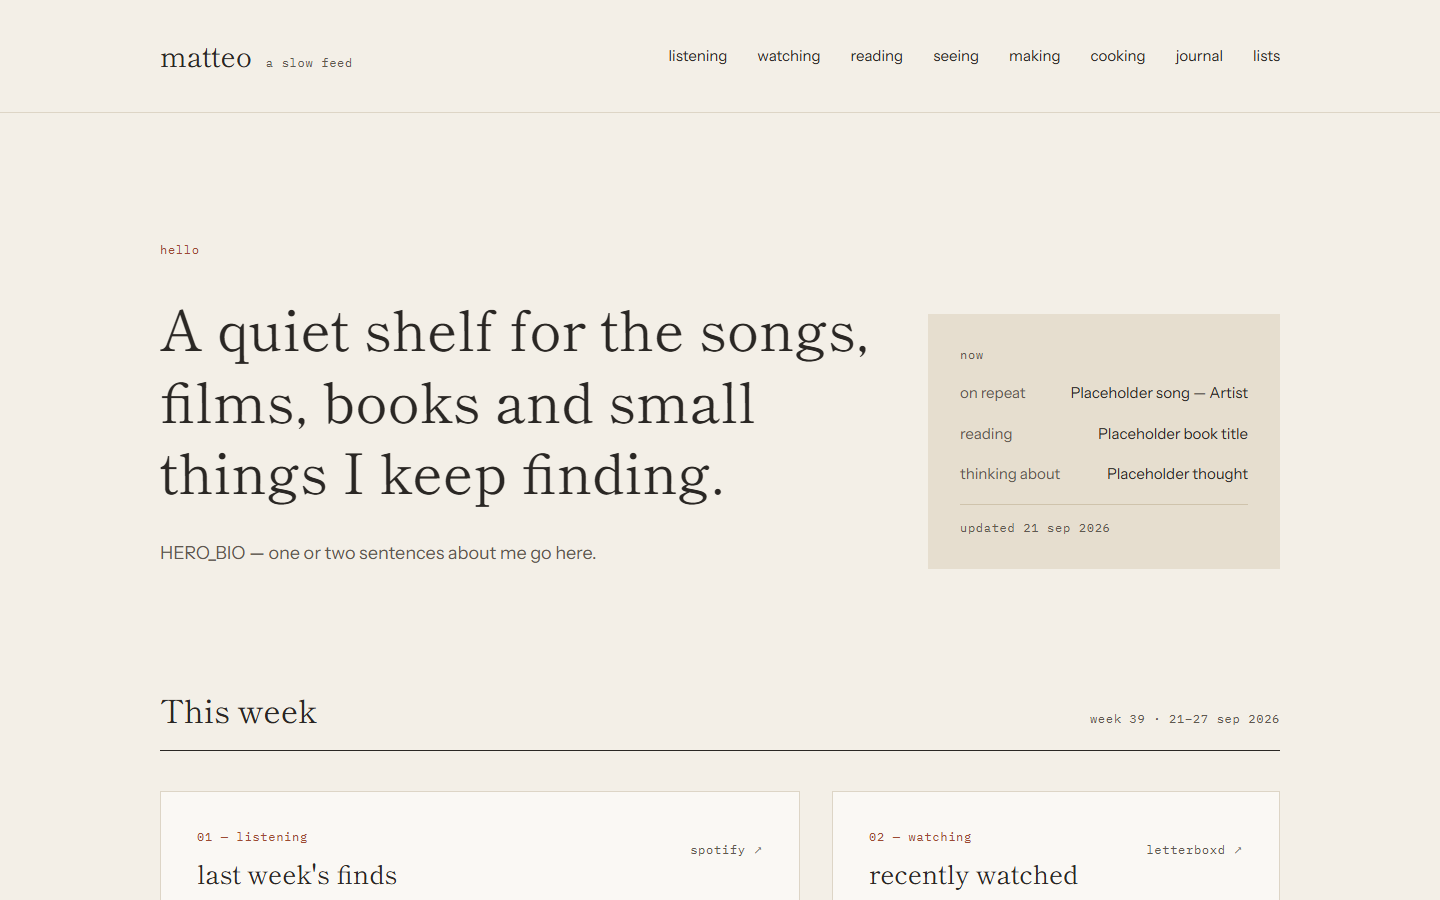
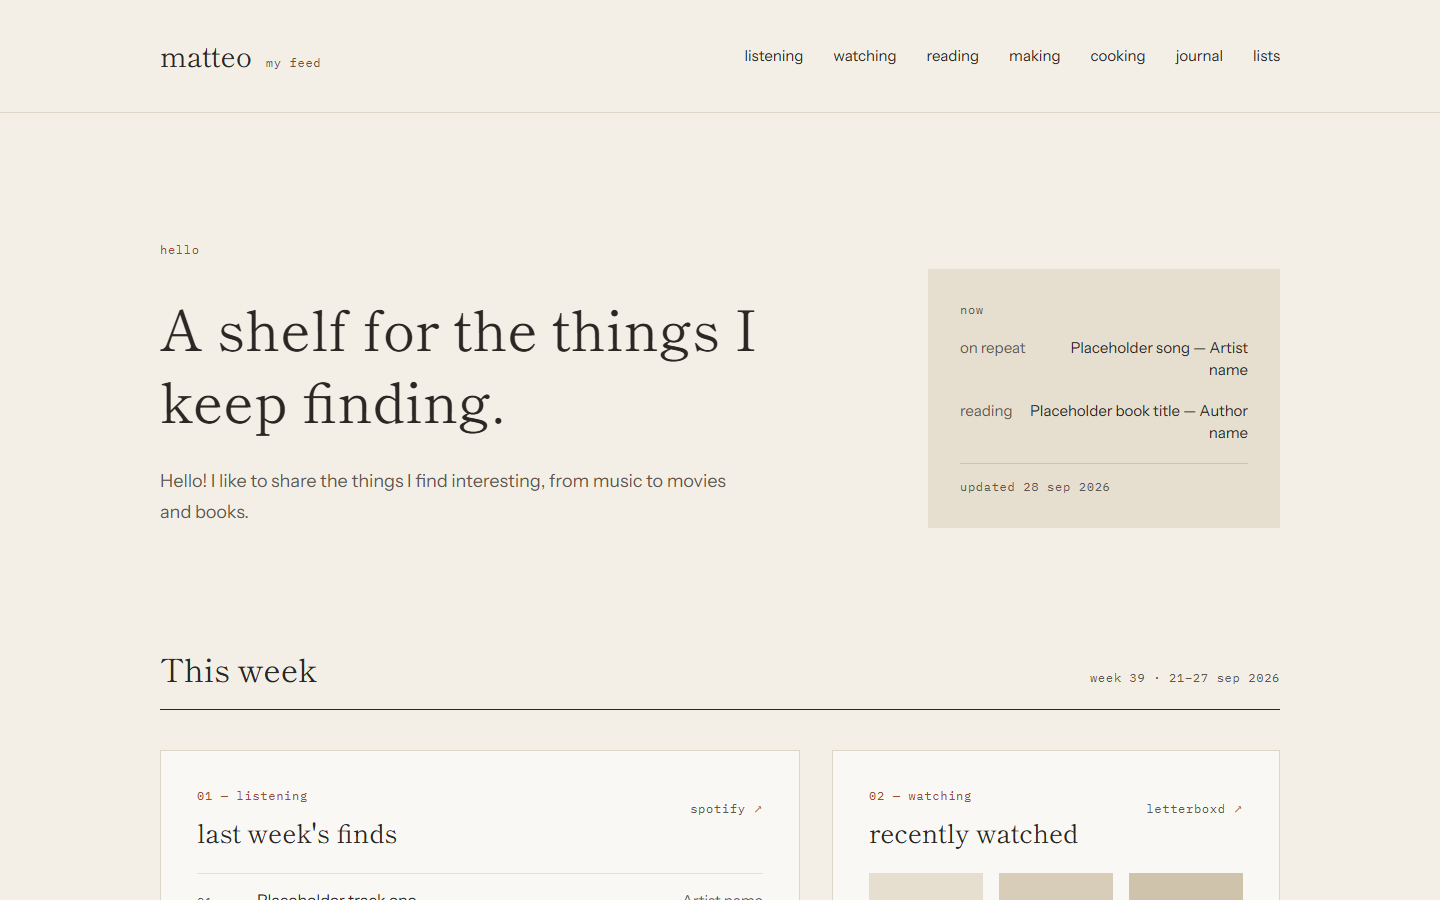
docs: add lighthouse scores, contrast table and new screenshots

diff --git a/docs/DESIGN.md b/docs/DESIGN.md
@@ -20,14 +20,14 @@ how to fill in each value and create each secret.
 | Value                                                                 | Where           | Notes                                                                             |
 | --------------------------------------------------------------------- | --------------- | --------------------------------------------------------------------------------- |
 | `SITE_NAME`                                                           | site.config.ts  | `matteo` (lowercase wordmark)                                                     |
-| `TAGLINE`                                                             | site.config.ts  | `a slow feed`                                                                     |
-| `HERO_TITLE`                                                          | site.config.ts  | `A quiet shelf for the songs, films, books and small things I keep finding.`      |
+| `TAGLINE`                                                             | site.config.ts  | `my feed`                                                                         |
+| `HERO_TITLE`                                                          | site.config.ts  | `A shelf for the things I keep finding.`                                          |
 | `HERO_BIO`                                                            | site.config.ts  | 1–2 sentences about Matteo                                                        |
 | `SITE_URL`                                                            | site.config.ts  | `https://vitellaro-matteo.github.io` (origin only)                                |
 | `BASE_PATH`                                                           | site.config.ts  | `/`: the repo is `vitellaro-matteo.github.io`, which Pages serves from the root   |
 | `TIMEZONE`                                                            | site.config.ts  | `Europe/Berlin` (week numbers and dates)                                          |
 | `SPOTIFY_PLAYLIST_ID`                                                 | site.config.ts  | the "last week's finds" playlist: the id, or its share link (`?si=…` is stripped) |
-| `LASTFM_USERNAME`                                                     | site.config.ts  | for the now box's "on repeat" row                                                 |
+| `LASTFM_USERNAME`                                                     | site.config.ts  | for the now box's "on repeat" row and the footer's `last.fm ↗` link               |
 | `LETTERBOXD_USERNAME`                                                 | site.config.ts  |                                                                                   |
 | `GOODREADS_USER_ID`                                                   | site.config.ts  | numeric id from the profile URL                                                   |
 | `GITHUB_USERNAME`                                                     | site.config.ts  |                                                                                   |
@@ -59,6 +59,9 @@ the directory-style output, so GitHub Pages never redirects.
 - **Quality:** ESLint (typescript-eslint, eslint-plugin-astro, jsx-a11y),
   Prettier, `astro check`, Vitest for every module in `src/lib`, ruff, mypy
   (strict), pytest, all run by CI.
+- **Build-time images:** `opentype.js` turns text in the site's own fonts into
+  outlines and `@resvg/resvg-js` rasterises the SVG, for the favicon PNGs and the
+  share cards (§3, Head and share images). No headless browser, no system fonts.
 - **Hosting:** GitHub Pages via `actions/deploy-pages`.
 - **Client JavaScript** is limited to the listening previews, the lists-page
   tabs, the map tooltips and the menu below desktop width, each a few dozen
@@ -88,6 +91,36 @@ the directory-style output, so GitHub Pages never redirects.
 
 Alternative accents are kept as comments only: moss `#5E6B4E`, slate `#3F5A6B`,
 ink `#2A2724`.
+
+### Contrast
+
+Every text and background pair the site uses, with its WCAG 2.2 contrast ratio.
+All of them pass AA (4.5:1 for text, 3:1 for large text and graphics) with the
+tokens as they are; none needed changing. `src/lib/contrast.ts` lists the pairs
+and its test reads the values from `tokens.css`, so a token change that breaks a
+pair fails `npm test`.
+
+| Foreground  | Background | Ratio   | Needs | Where                                                       |
+| ----------- | ---------- | ------- | ----- | ----------------------------------------------------------- |
+| `--ink`     | `--paper`  | 12.95:1 | 4.5   | body text, headings, nav, footer wordmark                   |
+| `--ink`     | `--card`   | 14.00:1 | 4.5   | card text, tile titles, map tooltip                         |
+| `--ink`     | `--kraft`  | 11.11:1 | 4.5   | now box values, lists band heading and tiles                |
+| `--muted`   | `--paper`  | 6.11:1  | 4.5   | bio, page intro text, meta, footer links                    |
+| `--muted`   | `--card`   | 6.60:1  | 4.5   | artists, authors, dates, source links, notes                |
+| `--muted`   | `--kraft`  | 5.24:1  | 4.5   | now box labels and `updated` line, band text                |
+| `--accent`  | `--paper`  | 5.32:1  | 4.5   | labels, current nav item, hover, the challenge count        |
+| `--accent`  | `--card`   | 5.76:1  | 4.5   | card labels, the `■` stop glyph, the #1 numeral             |
+| `--accent`  | `--kraft`  | 4.57:1  | 4.5   | lists and challenge band labels                             |
+| `--numeral` | `--paper`  | 3.43:1  | 3     | list numerals 02–10 (display 32–56px, large text)           |
+| `--accent`  | `--kraft`  | 4.57:1  | 3     | cooked countries against uncooked ones on the map (graphic) |
+| `--accent`  | `--paper`  | 5.32:1  | 3     | the focus outline (graphic; 5.76:1 on cards)                |
+
+Two graphics sit below 3:1 on purpose, because neither is the only way to get
+their information: the contribution calendar's lighter levels (accent at 30% and
+60% on card, 1.56:1 and 2.61:1) decorate an image whose name gives the total
+(`N contributions in the last 52 weeks`), and uncooked countries (`--kraft`,
+1.26:1 on card) are listed in full, by continent, under the map. Borders and
+rules (`--line`, `--line-soft`) are decorative.
 
 ### Type
 
@@ -132,7 +165,7 @@ Mono is always lowercase as written; nothing is ever uppercase-transformed.
 - 12-column grid, `column-gap: 32px` (row gap 32px for card grids).
 - **Breakpoints:** desktop from 1024px; **tablet** 768–1023px; **mobile** below
   768px. Below desktop every 12-column grid becomes a single column (twelve
-  columns would still reserve eleven 32px gaps, wider than a phone). §4.8 has the
+  columns would still reserve eleven 32px gaps, wider than a phone). §4.9 has the
   details.
 
 ### Components
@@ -143,7 +176,7 @@ Mono is always lowercase as written; nothing is ever uppercase-transformed.
   `listening · watching · reading · making · cooking · journal · lists`.
   The first five are anchors to the home-page sections; journal and lists link to
   their pages. On the journal, lists and cooking pages the matching item is
-  `--accent`. Below desktop the nav becomes the menu (§4.8).
+  `--accent`. Below desktop the nav becomes the menu (§4.9).
 - **Section heading:** display 32px `<h2>` on the left, mono muted meta on the
   right, baseline-aligned, `padding-bottom: 20px; border-bottom: 1px solid var(--ink)`;
   content starts 40px below.
@@ -154,9 +187,11 @@ Mono is always lowercase as written; nothing is ever uppercase-transformed.
 - **Media tile** (films and books): one link wrapping the 2:3 cover, the title
   (body 14px) and a mono muted meta line. Hover turns the title `--accent`, with
   no image effect; focus outlines the whole tile. It opens the Letterboxd entry
-  or Goodreads book page in the same tab, and its accessible name is
-  `Title (year), rated N stars on Letterboxd` or `Title by Author on Goodreads`
-  (the cover's alt text is empty, since the link names it).
+  or Goodreads book page in the same tab. Its accessible name starts with the
+  visible title (WCAG 2.5.3, label in name) and goes on with visually hidden
+  words in place of the symbol-heavy meta line, which is `aria-hidden`:
+  `Title (year), rated N stars, on Letterboxd` or `Title by Author, on
+Goodreads`. The cover's alt text is empty, since the link names it.
 - **Rows inside a card:** each row has `border-top: 1px solid var(--line-soft)`,
   including the first, so every list starts with a hairline under the card
   header. Padding 14px 0 (12px for GitHub rows, 16px for journal rows).
@@ -169,7 +204,9 @@ Mono is always lowercase as written; nothing is ever uppercase-transformed.
 - **Footer:** `margin-top: 96px; padding: 40px 0 64px; border-top: 1px solid var(--ink)`.
   Left: wordmark (display 22px) and `Updated automatically, written slowly.`
   (body 14px, muted) side by side, baseline-aligned, gap 14px, like the header.
-  Right: mono muted links, gap 24px: spotify, letterboxd, goodreads, github, rss.
+  Right: mono muted links, gap 24px: spotify, last.fm, letterboxd, goodreads,
+  github, rss. The last.fm link is left out while `LASTFM_USERNAME` is still a
+  placeholder (`isFilled` in `src/lib/config.ts`).
 
 ### Formats
 
@@ -179,6 +216,38 @@ Mono is always lowercase as written; nothing is ever uppercase-transformed.
 - Relative time: `40m ago`, `5h ago`, `3d ago`.
 - Tags: joined with `, `.
 - Reading time: word count at 200 words a minute, shown as `N min`.
+
+### Head and share images
+
+Every page's `<head>` (in `src/layouts/Base.astro`) carries:
+
+- `<title>`: `Page title — matteo`, or `matteo — TAGLINE` on the home page;
+  a meta description (the entry's summary, the recipe's lead, the page intro's
+  text, or `HERO_TITLE`); a canonical URL on `SITE_URL`; the RSS alternate link;
+  `theme-color` `--paper`.
+- **Favicon:** a lowercase `m` in Shippori Mincho 400, `--ink` on a `--paper`
+  square, fitted to 26 of 32px so it stays legible at 16px. `/favicon.svg`, with
+  a `/favicon-32.png` fallback and a 180px `/apple-touch-icon.png`.
+- **Open Graph and Twitter card** (`summary_large_image`): `og:type` `article`
+  for journal entries and recipes, `website` elsewhere; title, description, URL,
+  site name, and a share image with its size and alt text.
+- **Share images:** one 1200×630 PNG per page type, generated at build time as
+  `/og/TYPE.png` (`src/lib/brand.ts`, `src/lib/og.ts`). Paper background; the
+  wordmark (display 48px, ink) and tagline (mono 20px, muted) at the top over a
+  1px `--line` rule, like the header; at the bottom left, 80px from the edges,
+  the mono accent label (24px) over the title in display 84px / 1.1, ink,
+  wrapped to the width.
+
+  | Type        | Used by                        | Label              | Title                      |
+  | ----------- | ------------------------------ | ------------------ | -------------------------- |
+  | `home`      | the home page and the 404 page | `hello`            | `HERO_TITLE`               |
+  | `journal`   | the journal index and entries  | `journal`          | `Notes & essays`           |
+  | `lists`     | the lists pages                | `lists`            | `Top tens, every December` |
+  | `cooking`   | the cooking index and recipes  | `cooking`          | `What I've been cooking`   |
+  | `challenge` | the around-the-world page      | `around the world` | `One dish, every country`  |
+
+- `/robots.txt` allows everything and points to the sitemap, which leaves out
+  the 404 page.
 
 ---
 
@@ -214,8 +283,9 @@ solid var(--kraft-3)`: the date of the newest successful fetch behind the
      `--accent` while playing, when a 2px `--accent` line grows along the bottom
      of the row. One preview plays at a time; starting another stops the first;
      a preview ends at 30 seconds or when the clip ends; nothing autoplays. The
-     button's `aria-label` is `Play preview of Title by Artist` (or
-     `Stop preview` while playing) and `aria-pressed` follows playback. A
+     button's name starts with the number it shows, `01. Play preview of Title
+by Artist`, and stays the same while playing; `aria-pressed` carries the
+     state. A
      preview that fails to load (the signed Deezer links expire) turns its row
      back into a plain number. Rows without a preview keep a plain number.
      Under the list, body 14px muted: `30-second previews via Deezer. Full songs
@@ -410,7 +480,15 @@ Uses the journal entry layout (§4.3), including the older/newer footer.
   a code missing from the list fails the build. When several recipes share a
   country, the most recent one is linked.
 
-### 4.8 Tablet and mobile
+### 4.8 Not found `/404`
+
+GitHub Pages serves `404.html` for any unknown path. It uses the page-intro
+pattern (§4.4): mono accent `404`, h1 `Nothing on this shelf`, no right-hand
+text. Below, body 16px / 1.7 muted `This page doesn't exist, or it moved.`, then
+a mono muted `back home →` link (44px tall) to `/`, with 112px before the
+footer.
+
+### 4.9 Tablet and mobile
 
 Checked on every page at 360, 390, 768 and 1024px wide: no horizontal scrolling,
 nothing overflows its card or the viewport, touch targets are at least 44px
@@ -632,11 +710,19 @@ group queues runs so two never overlap, and never cancels one mid-deploy.
    `actions/deploy-pages` in a separate job. Nothing is committed back to the repo.
 
 **CI workflow, `.github/workflows/ci.yml`:** on every push and pull request, runs
-lint, `astro check`, the Vitest suite and a build with `USE_FIXTURES=true`, plus
-ruff, mypy and pytest. The pytest suite runs every parser against saved API
+lint, `astro check`, the Vitest suite and a sample build with `USE_FIXTURES=true`
+(the sample feeds and the draft examples, as in `npm run dev`), plus ruff, mypy
+and pytest. The pytest suite runs every parser against saved API
 responses in `tests/fixtures/`, with no network access.
 
 The build also generates `/rss.xml` (journal entries and recipes) and a sitemap.
+
+**Actions and dependencies:** every action in both workflows is pinned to the
+full commit SHA of its latest release, with the version in a comment
+(`actions/checkout@<sha> # v7.0.1`), and all of them run on Node 24. Dependabot
+(`.github/dependabot.yml`) checks GitHub Actions, npm and pip weekly, each
+ecosystem in one grouped pull request, and keeps the SHA pins and their version
+comments current.
 
 ---
 
@@ -646,7 +732,17 @@ The build also generates `/rss.xml` (journal entries and recipes) and a sitemap.
 2. ✓ Journal, lists and cooking pages, content schemas, example files.
 3. ✓ Challenge map and `countries.yaml`.
 4. ✓ Python fetchers, tests and the deploy workflow.
-5. Mobile pass, accessibility pass (contrast, focus styles as a 2px accent
-   outline offset 2px, alt text), Lighthouse ≥ 95 in every category. The mobile
-   and tablet layouts, the menu and the focus style are done (§4.8); the
-   contrast audit and Lighthouse remain.
+5. ✓ Mobile pass, accessibility pass (contrast, focus styles as a 2px accent
+   outline offset 2px, alt text), Lighthouse ≥ 95 in every category, plus the
+   favicon, share images, meta tags and 404 page.
+
+**Lighthouse** 13.5 on a sample build (`USE_FIXTURES=true`), Edge headless,
+29 Sep 2026. Scores are performance / accessibility / best practices / SEO:
+
+| Page                         | Mobile                | Desktop               |
+| ---------------------------- | --------------------- | --------------------- |
+| `/`                          | 100 / 100 / 100 / 100 | 100 / 100 / 100 / 100 |
+| `/journal/example-entry/`    | 100 / 100 / 100 / 100 | 100 / 100 / 100 / 100 |
+| `/lists/example/`            | 100 / 100 / 100 / 100 | 100 / 100 / 100 / 100 |
+| `/cooking/`                  | 99 / 100 / 100 / 100  | 100 / 100 / 100 / 100 |
+| `/cooking/around-the-world/` | 98 / 100 / 100 / 100  | 100 / 100 / 100 / 100 |

diff --git a/README.md b/README.md
@@ -7,7 +7,10 @@ and cook, one quiet shelf at a time.
 
 [![CI](https://github.com/vitellaro-matteo/vitellaro-matteo.github.io/actions/workflows/ci.yml/badge.svg)](https://github.com/vitellaro-matteo/vitellaro-matteo.github.io/actions/workflows/ci.yml)
 
-![The home page](docs/screenshot.png)
+<p>
+  <img src="docs/screenshot.png" alt="The home page on a desktop: the wordmark and nav, the hero line and the now box, and the first cards of this week" width="72%">
+  <img src="docs/screenshot-mobile.png" alt="The home page on a phone: the wordmark, the menu button, the hero line and the now box stacked" width="22%">
+</p>
 
 ## Features
 
@@ -28,6 +31,11 @@ and cook, one quiet shelf at a time.
   on an Equal Earth world map rendered to static SVG at build time, with
   keyboard-accessible tooltips and a full list by continent.
 - **Yearly top tens** of songs, albums, films and books.
+- **Accessible and fast:** Lighthouse 98–100 in every category on mobile and
+  desktop, every colour pair checked against WCAG AA by a unit test, visible
+  focus everywhere, and screen-reader names that match what's on screen.
+- **Share cards drawn at build time:** a favicon and one Open Graph image per
+  page type, set in the site's own fonts and colours, plus full meta tags.
 - **RSS feed and sitemap.** All content is validated at build time: a typo in
   frontmatter or in the country list fails the build with a clear message.
 
@@ -90,11 +98,13 @@ it; touch targets are at least 44px.
 - **TypeScript** (strict) and **Zod** schemas for all content and data files
 - **Plain CSS** with custom properties; no UI framework
 - **d3-geo, topojson-client and topojson-simplify** for the build-time SVG map
+- **opentype.js and resvg** for the favicon and share images, drawn at build time
 - **Python 3.10+** fetchers (`requests`, `defusedxml`), checked with ruff, mypy
   (strict) and pytest against saved API responses
 - **Vitest** for the TypeScript helpers
 - **ESLint** (typescript-eslint, astro, jsx-a11y) and **Prettier**
-- **GitHub Actions** for CI and a daily deploy, **GitHub Pages** for hosting
+- **GitHub Actions** for CI and a daily deploy, every action pinned to a commit
+  SHA and kept current by Dependabot; **GitHub Pages** for hosting
 
 ## Project structure
 
@@ -109,13 +119,13 @@ it; touch targets are at least 44px.
 │   ├── data/               countries.yaml and sample feed fixtures
 │   ├── layouts/            the page shell
 │   ├── lib/                typed, tested helpers (dates, paths, feeds, map, …)
-│   ├── pages/              routes and the RSS feed
+│   ├── pages/              routes, the RSS feed, favicon and share images
 │   └── styles/             design tokens and global CSS
 ├── scripts/                Python fetchers (one per source + fetch_all), Spotify token helper
 ├── tests/                  pytest suite and saved API responses
 ├── public/media/           photos and cover art
 ├── docs/                   DESIGN, CONTENT and SETUP guides
-└── .github/workflows/      CI and deploy
+└── .github/               CI and deploy workflows, Dependabot
 ```
 
 ## Decisions
@@ -135,6 +145,10 @@ it; touch targets are at least 44px.
   written as compact SVG paths during the build. Visitors get about 45 KB of
   inline SVG (26 KB gzipped for the whole challenge page) instead of a map
   library plus 750 KB of country geometry.
+- **Share images without a browser.** The Open Graph cards and favicon are
+  drawn from the site's own font files with opentype.js and rasterised with
+  resvg during the build, so they always match the fonts and tokens, need no
+  headless browser, and pull in no dependency with a known vulnerability.
 - **One place for configuration.** Every username, URL and path lives in
   `site.config.ts`, and every internal link goes through one path helper, so
   moving the site to a sub-path or a custom domain is a one-line change.
@@ -145,7 +159,21 @@ it; touch targets are at least 44px.
 - [x] Around-the-world map and challenge page
 - [x] Python fetchers and the deploy workflow (daily refresh, cached fallbacks)
 - [x] Mobile and tablet layouts, menu, focus styles
-- [ ] Accessibility audit (contrast) and Lighthouse ≥ 95
+- [x] Accessibility audit (contrast, names, focus) and Lighthouse ≥ 95
+- [x] Favicon, share images, meta tags and a 404 page
+
+## Lighthouse
+
+Lighthouse 13.5 on a sample build (`USE_FIXTURES=true`, sample feeds and the
+draft examples), 29 Sep 2026. Performance / accessibility / best practices / SEO:
+
+| Page                         | Mobile                | Desktop               |
+| ---------------------------- | --------------------- | --------------------- |
+| `/`                          | 100 / 100 / 100 / 100 | 100 / 100 / 100 / 100 |
+| `/journal/example-entry/`    | 100 / 100 / 100 / 100 | 100 / 100 / 100 / 100 |
+| `/lists/example/`            | 100 / 100 / 100 / 100 | 100 / 100 / 100 / 100 |
+| `/cooking/`                  | 99 / 100 / 100 / 100  | 100 / 100 / 100 / 100 |
+| `/cooking/around-the-world/` | 98 / 100 / 100 / 100  | 100 / 100 / 100 / 100 |
 
 ## Quick start
 

diff --git a/docs/SETUP.md b/docs/SETUP.md
@@ -27,9 +27,9 @@ ruff check . && ruff format --check . && mypy && pytest
 
 The sample feeds in `src/data/feeds/` are for development only. `npm run dev`
 uses them automatically; a build uses them only when run with
-`USE_FIXTURES=true` (as CI does). A plain `npm run build` behaves like
-production: any feed card without real data is left out, and the build log
-lists which ones.
+`USE_FIXTURES=true` (as CI does), which also includes the draft examples. A plain
+`npm run build` behaves like production: any feed card without real data is left
+out, and the build log lists which ones.
 
 ### Running the fetchers locally
 
@@ -52,14 +52,14 @@ filled in.
 | Field                | Value                                                                              |
 | -------------------- | ---------------------------------------------------------------------------------- |
 | `name`               | The lowercase wordmark, `matteo`.                                                  |
-| `tagline`            | `a slow feed`.                                                                     |
+| `tagline`            | The short line beside the wordmark, `my feed`.                                     |
 | `heroTitle`          | The large line on the home page.                                                   |
 | `heroBio`            | One or two sentences about you, under the hero title.                              |
 | `url`                | `https://vitellaro-matteo.github.io` (origin only, no path).                       |
 | `basePath`           | `/`, since Pages serves the `<user>.github.io` repo from the root.                 |
 | `timezone`           | An IANA zone such as `Europe/Berlin`. Used for dates and the "this week" range.    |
 | `spotifyPlaylistId`  | The playlist id, `open.spotify.com/playlist/<id>`; a pasted share link also works. |
-| `lastfmUsername`     | Your Last.fm username, from `last.fm/user/<username>`.                             |
+| `lastfmUsername`     | From `last.fm/user/<username>`. Also adds `last.fm ↗` to the footer.               |
 | `letterboxdUsername` | From your profile URL, `letterboxd.com/<username>/`.                               |
 | `goodreadsUserId`    | The number in your profile URL, `goodreads.com/user/show/<id>-name`.               |
 | `githubUsername`     | Your GitHub login, `vitellaro-matteo`.                                             |

diff --git a/CLAUDE.md b/CLAUDE.md
@@ -70,7 +70,7 @@ Anything you decided where the design is silent, and anything you need from Matt
 2. ✓ Journal, lists, cooking pages, content schemas, example files.
 3. ✓ Challenge map + `countries.yaml`.
 4. ✓ Python fetchers + tests + deploy workflow.
-5. Mobile pass, accessibility pass (contrast, focus = 2px accent outline offset 2px,
+5. ✓ Mobile pass, accessibility pass (contrast, focus = 2px accent outline offset 2px,
    alt text), Lighthouse ≥ 95 in all categories.
 
 After each phase: make every check above pass, then stop and give the

diff --git a/docs/CONTENT.md b/docs/CONTENT.md
@@ -8,7 +8,8 @@ Run `npm run dev` while editing to see changes live at `http://localhost:4321/`.
 
 ## Drafts and examples
 
-Any entry with `draft: true` shows in `npm run dev` but never in the built site.
+Any entry with `draft: true` shows in `npm run dev` and in a sample build
+(`USE_FIXTURES=true`, which CI uses), but never in the real built site.
 Each content type has one example file, marked as an example and set as a
 draft, to copy from:
 
